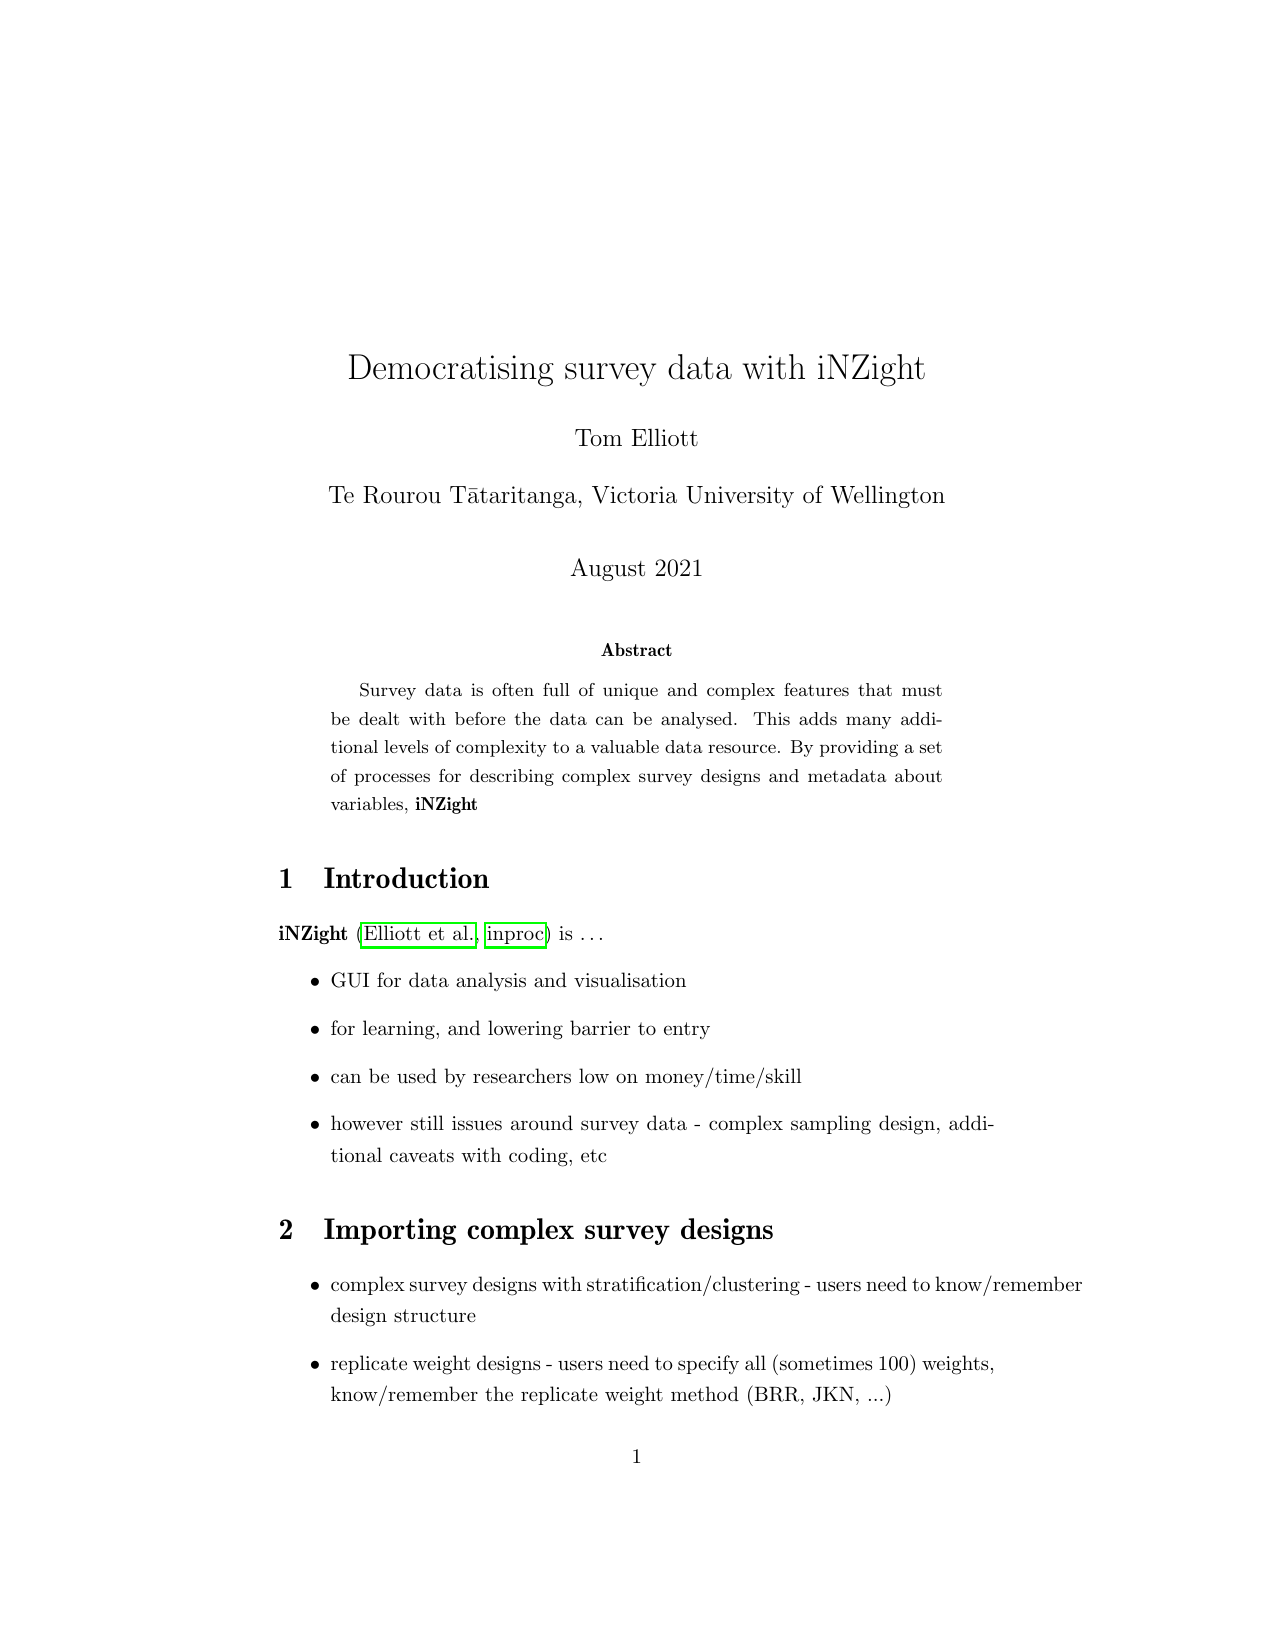
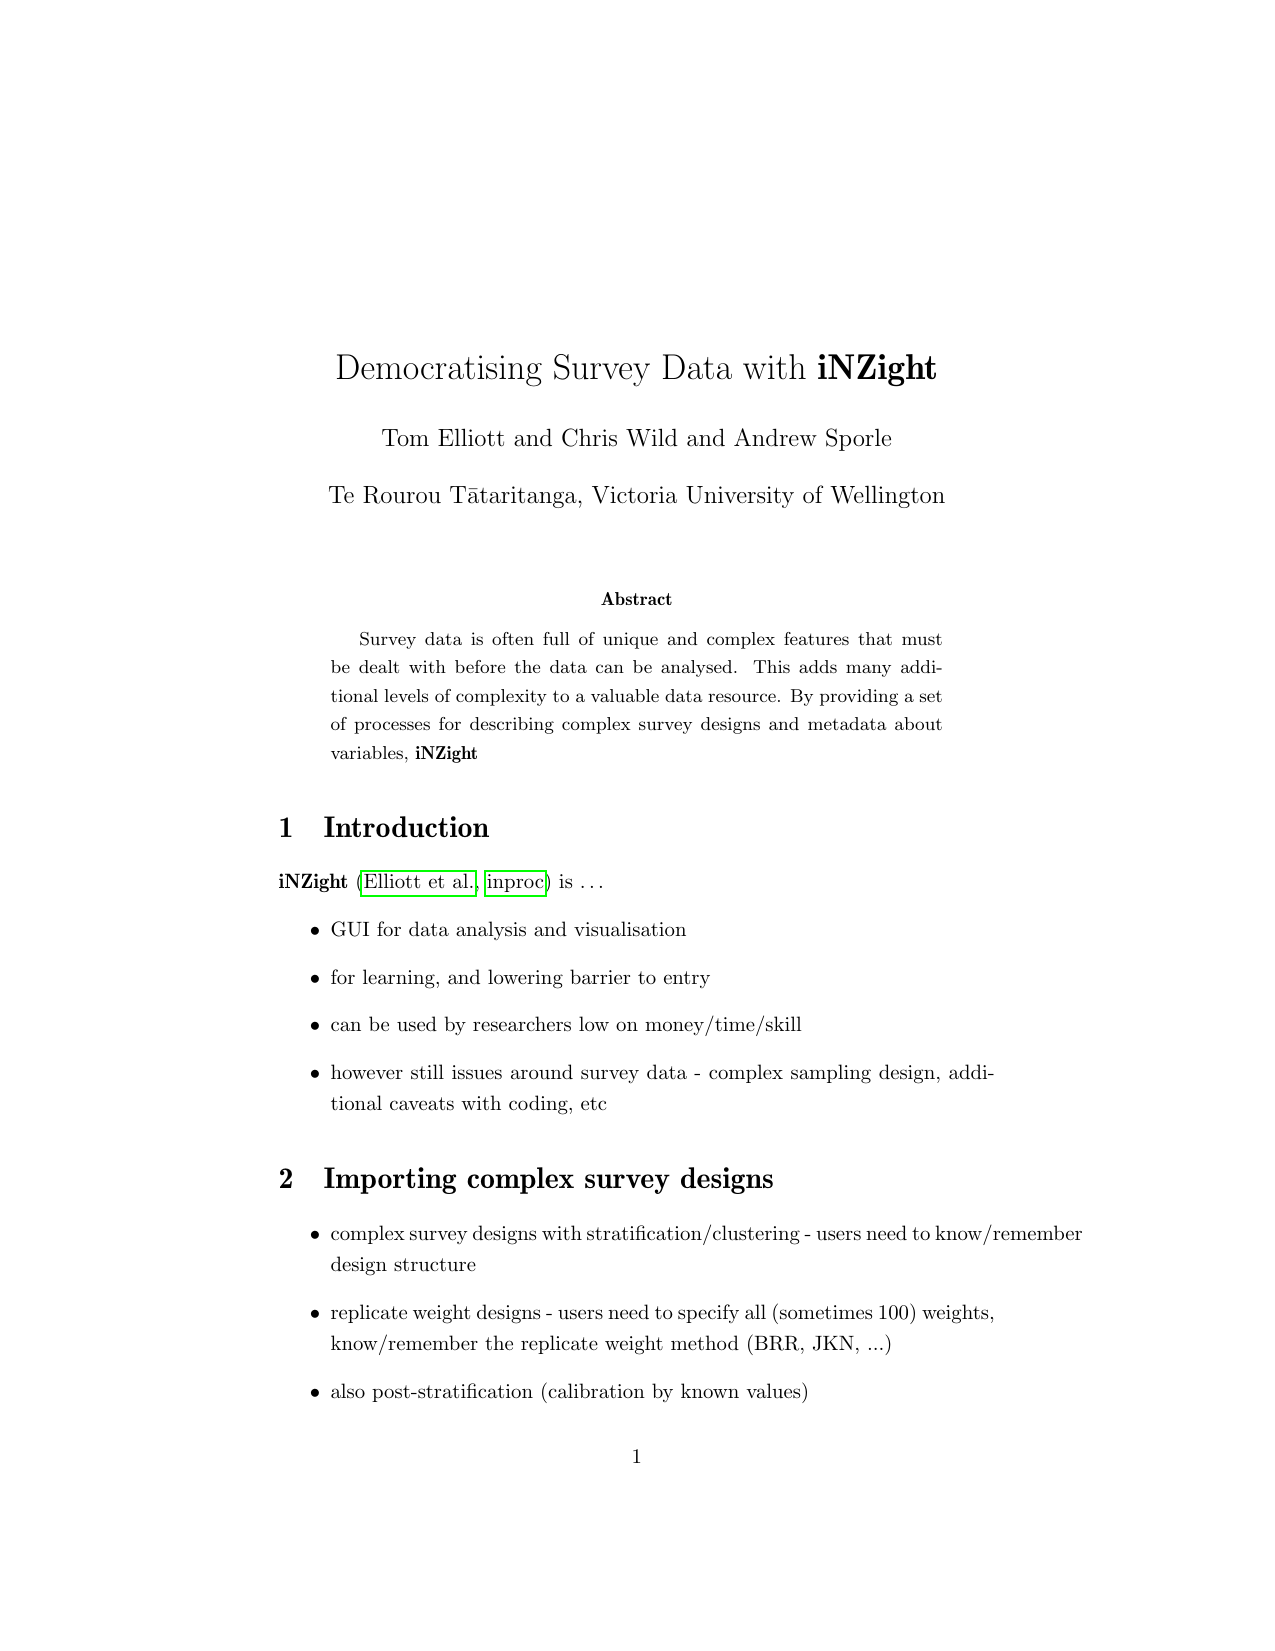
Compile PDFs and update README

diff --git a/README.md b/README.md
@@ -37,8 +37,9 @@ Andrew Sporle
 
 <td>
 
-<strong><a href='202x_democratising-surveys/index.pdf'>Title Goes
-Here</a></strong><br>Author One, Author Two
+<strong><a href='202x_democratising-surveys/index.pdf'>Democratising
+Survey Data with iNZight</a></strong><br>Tom Elliott and Chris Wild and
+Andrew Sporle
 
 </td>
 
